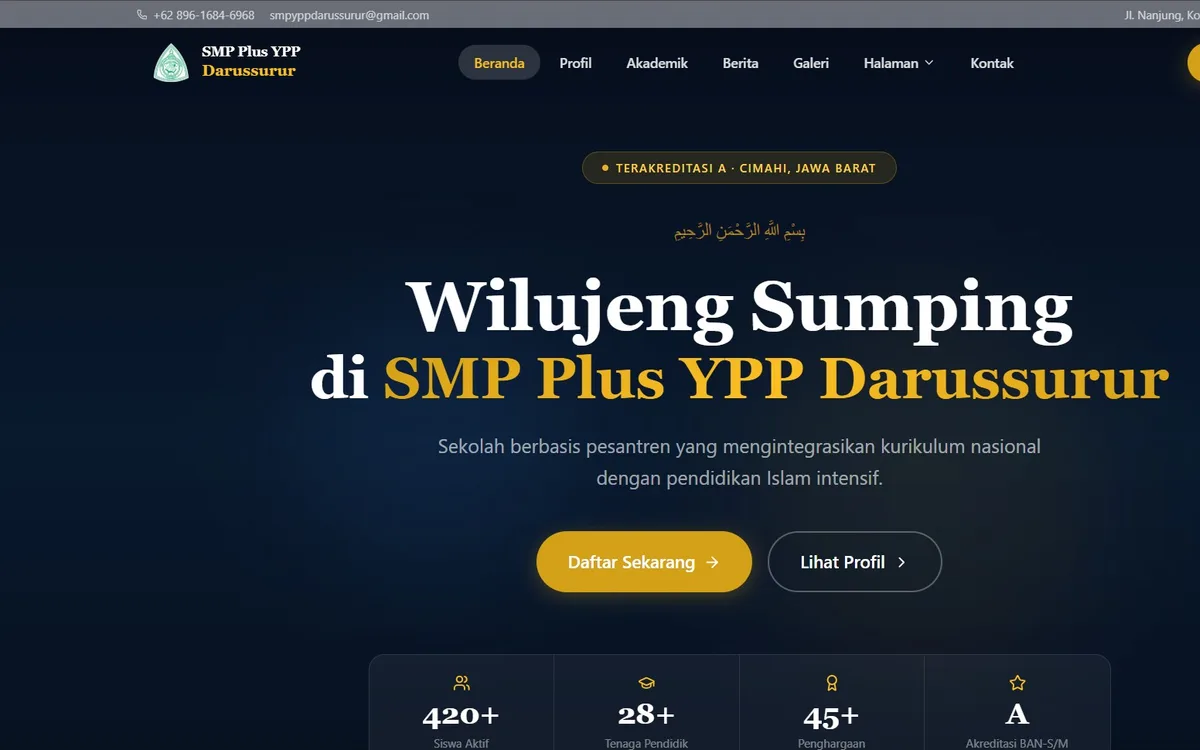
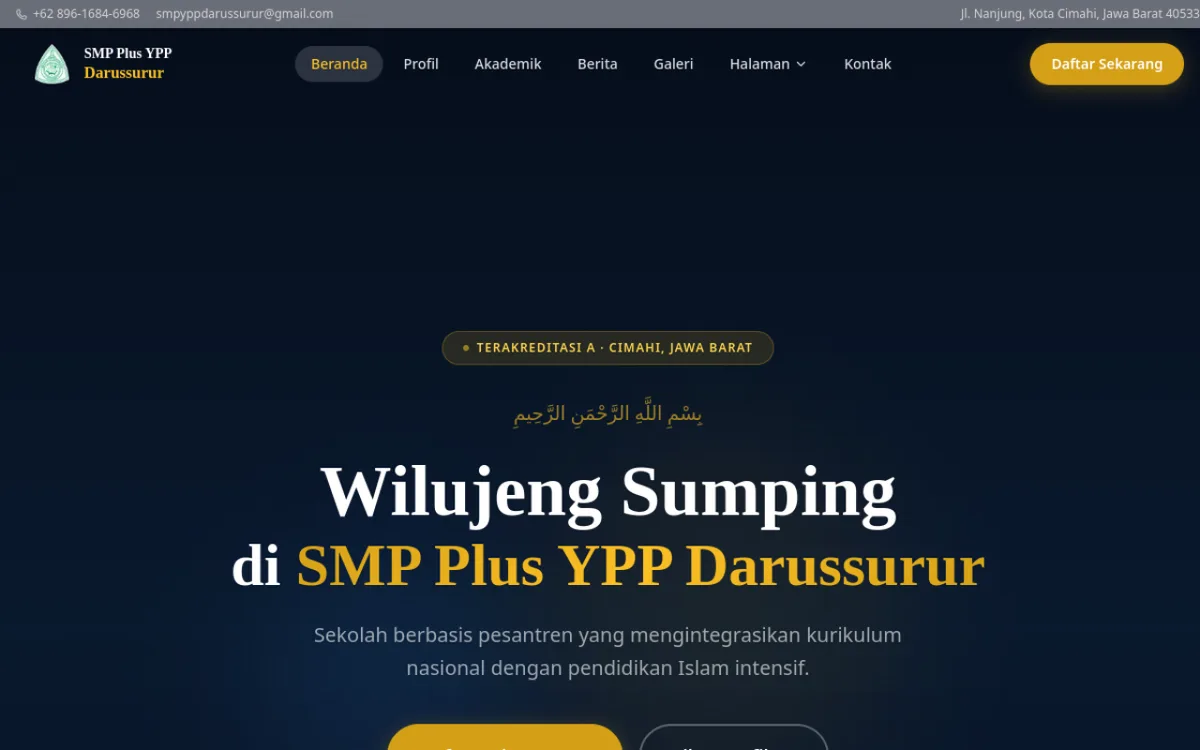
fix: center project preview images horizontally
Re-capture haneul, pactra, darussurur previews via thum.io so they use
the updated centered framing (position: 'top') instead of the old
left-anchored crop (position: 'left top'). Foton and hive were already
correct. Add explicit object-center to ProjectCard images for
consistent horizontal centering across browsers.

diff --git a/src/components/ProjectCard.tsx b/src/components/ProjectCard.tsx
@@ -131,7 +131,7 @@ const ProjectCard: React.FC<ProjectCardProps> = React.memo(
                 alt={`${project.title} screenshot`}
                 fill
                 sizes="(max-width: 768px) 92vw, 30vw"
-                className="object-cover"
+                className="object-cover object-center"
               />
             </motion.div>
           </div>
@@ -161,7 +161,7 @@ const ProjectCard: React.FC<ProjectCardProps> = React.memo(
                     src={project.imageSrc}
                     alt={`${project.title} preview`}
                     fill
-                    className="object-cover"
+                    className="object-cover object-center"
                   />
                   {/* gradient overlay */}
                   <div className="absolute inset-0 bg-gradient-to-t from-zinc-950 via-zinc-950/40 to-transparent" />

diff --git a/AGENTS.md b/AGENTS.md
@@ -39,7 +39,7 @@ Projects, experience, nav items, and social links are hardcoded arrays at the to
 
 ## Project previews
 
-Every preview is a **1200x750 WebP** — a laptop-screen frame. The card renders it in `aspect-[16/10]`; do not reintroduce fixed pixel heights or `flex-grow`, which is what made the grid stretch vertically.
+Every preview is a **1200x750 WebP** — a laptop-screen frame. The card renders it in `aspect-[16/10]`; do not reintroduce fixed pixel heights or `flex-grow`, which is what made the grid stretch vertically. Sources narrower than 1200px are never upscaled (blurry), so they keep their own width.
 
 Workflow:
 
@@ -48,7 +48,7 @@ Workflow:
 
 Framing rules live in `scripts/lib/preview-frame.mjs` and are load-bearing:
 
-- `fit: 'cover'` anchored **top-left**. Cover fills the frame with no padding band; padding to 16:10 left a visible stripe under light-themed pages, and centre-anchoring sliced through the site logo. Wide captures crop from the right so the logo survives.
+- `fit: 'cover'` anchored **top, centred horizontally**. Cover fills the frame with no padding band; padding to 16:10 left a visible stripe under light-themed pages. Wide captures (which must lose their sides to reach 16:10) are cropped evenly from both edges, which is what the user asked for — note this can clip a logo pinned to the far left.
 - `fetch-previews.mjs` needs `wait/10`, and tries a viewport capture first with `fullpage` as a fallback — some deployments (Hive) return a blank viewport shot and only render under `fullpage`.
 - Blank captures are detected and rejected rather than written.
 
